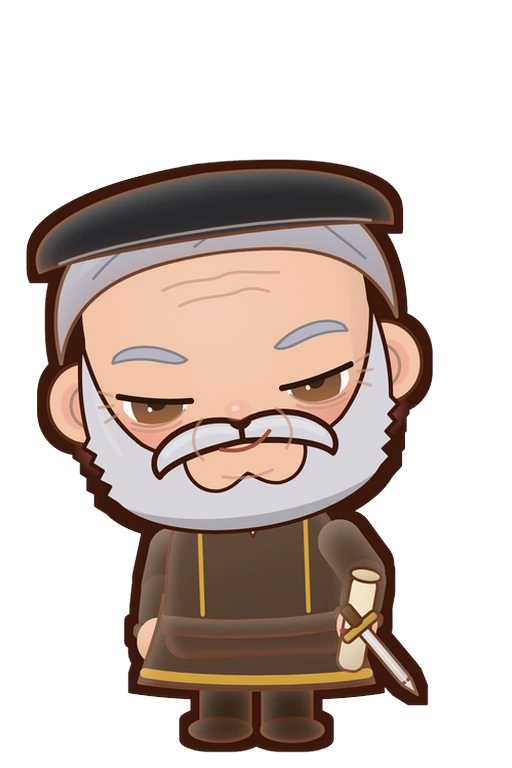
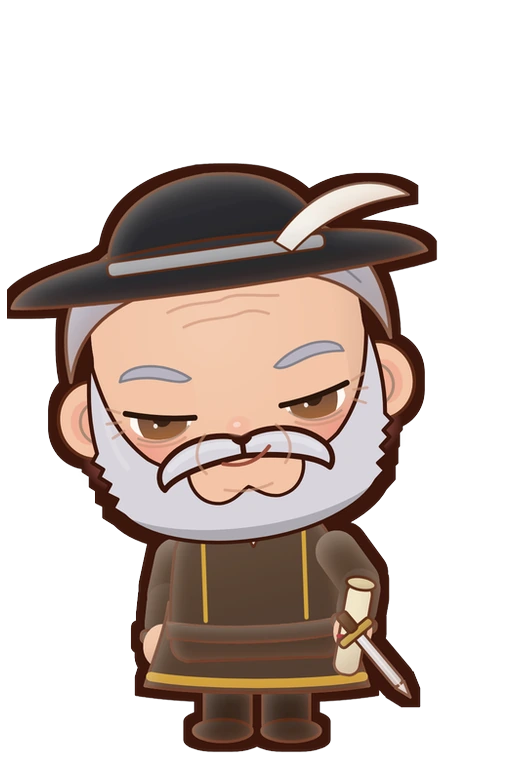
США: ревью спрайтов — Всадник без головы, Джон Уайт, Майлз Стэндиш

Changed region(s): [[0.0, 0.1875, 0.875, 0.9688]]

diff --git a/tools/batches/usa_recipes.py b/tools/batches/usa_recipes.py
@@ -113,7 +113,8 @@ RECIPES = [
       "mantle": "#e9d8a8", "shoes": "#1e1e22"}, sleeves=sl("#a8312f", "#f4f1ea"), iris="#5f7a9a"),
     R("brom_bones", "Бром Бонс", hair=("curly", "#2a1a12"), beard=("handlebar", "#2a1a12"), bushy=True,
       outfit={"type": "coat", "col": "#5a6b4a", "trim": "#7a5232", "belt": "#3b2a20"}, sleeves=sl("#5a6b4a"), legs=tr("#5a4434"), boots=bo("#3b2a20")),
-    R("headless_horseman", "Всадник без головы", face=False, hair=None,
+    R("headless_horseman", "Всадник без головы", face=False, hair=None, skin="#151018",
+      hat={"type": "tricorne", "col": "#1e1e22", "trim": "#5a2a2a"},
       outfit={"type": "uniform", "col": "#1e1e22", "facing": "#5a2a2a", "trim": "#8a6a2a", "sash": "", "epaulettes": False},
       cape={"type": "cape", "col": "#1e1e22"}, sleeves=sl("#1e1e22"), legs=tr("#1e1e22"), boots=tall(), held=h("sword")),
     R("chapman", "Джонни Эплсид", hair=("long", "#8a5a34"), beard=("goatee", "#8a5a34"), hat={"type": "hood", "col": "#7a6a52"},
@@ -165,7 +166,7 @@ RECIPES = [
       outfit={"type": "robe", "col": "#3b2a20", "rope": "#d8c7a0"}, sleeves=sl("#3b2a20"), held=h("cross")),
     # ---------- Роанок, Джеймстаун, Вирджиния
     R("john_white", "Губернатор Джон Уайт", age="old", hair=("short", "#b8b4c0"), beard=("full", "#d8d4dc"), collar={"type": "ruff", "col": "#f4f1ea"},
-      hat={"type": "beret", "col": "#2a2a2e", "feather": ""}, outfit={"type": "doublet", "col": "#5a4434", "trim": "#d4a63c", "chain": False},
+      hat={"type": "wide", "col": "#2a2a2e", "feather": "#f4f1ea"}, outfit={"type": "doublet", "col": "#5a4434", "trim": "#d4a63c", "chain": False},
       sleeves=sl("#5a4434"), legs=tr("#2a2a2e"), boots=bo("#3b2a20"), held=h("scroll")),
     R("eleanor_dare", "Элинор Дэр", male=False, hair=("long", "#8a5a34"), hat={"type": "veil", "col": "#f4f1ea", "band": ""},
       outfit={"type": "gown", "dress": "#7a6a52", "trim": "#f4f1ea", "mantle": "#5a4434", "shoes": "#3b2a20"}, sleeves=sl("#7a6a52")),
@@ -191,7 +192,7 @@ RECIPES = [
     puritan("carver", "Джон Карвер", age="old", hair=("shoulder", "#b8b4c0"), beard=("goatee", "#d8d4dc")),
     puritan("hopkins_s", "Стивен Хопкинс", coat="#5a4434", beard=("full", "#5a3a22"), bushy=True),
     R("standish", "Майлз Стэндиш", hair=("short", "#a8562a"), beard=("full", "#a8562a"), bushy=True,
-      hat={"type": "helmet", "col": "#b9bfc6", "trim": "#8a6a2a"}, outfit={"type": "chainmail", "steel": "#a9b0b8", "surcoat": "#a8312f", "belt": "#5b3a22"},
+      hat={"type": "wide", "col": "#3b2a20", "feather": "#a8312f"}, outfit={"type": "chainmail", "steel": "#a9b0b8", "surcoat": "#a8312f", "belt": "#5b3a22"},
       sleeves=sl("#a9b0b8"), legs=tr("#3b2a20"), boots=bo("#3b2a20"), held=h("sword")),
     native("squanto", "Тисквантум (Скуанто)", deer="#a8794e", fur="#e9d8a8", hair=("short_sides", "#1e1a18")),
     native("massasoit", "Осамекин (Массасоит)", age="old", hair_col="#5a5a5a", deer="#7a5232", fur="#a8312f",
